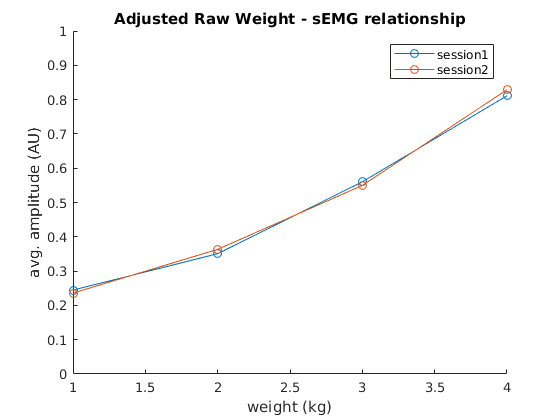
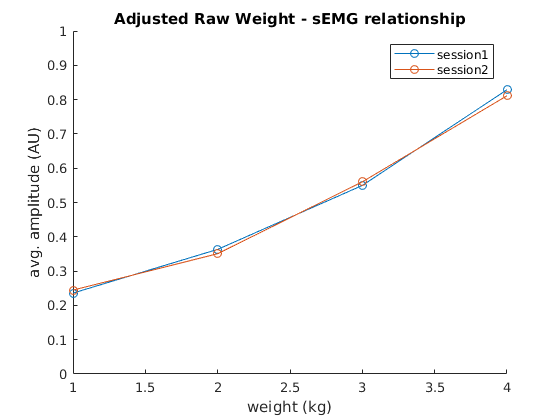
pics

diff --git a/ADC_NI_DAQ/Signal plotting example/plot_reg_multi_test.m b/ADC_NI_DAQ/Signal plotting example/plot_reg_multi_test.m
@@ -4,8 +4,8 @@ clear; close all;
 
 
 %% Part 1
-file_path = '/home/dymnz/Documents/sEMG/Signals/2017_8_9/';
-filenames = {'1kg.lvm', '2kg.lvm', '3kg_2.lvm', '4kg.lvm'};
+file_path = '/home/dymnz/Documents/sEMG/Signals/2017_8_8/';
+filenames = {'1kg_2.lvm', '2kg_2.lvm', '3kg_2.lvm', '4kg_2.lvm'};
 
 MVC = lvmread(strcat(file_path, 'MVC.lvm'));
 MVC(:, 2) = MVC(:, 2) - mean(MVC(:, 2));
@@ -38,8 +38,8 @@ ylabel('avg. amplitude (AU)');
 hold on;
 
 %% Part 2
-file_path = '/home/dymnz/Documents/sEMG/Signals/2017_8_8/';
-filenames = {'1kg_2.lvm', '2kg_2.lvm', '3kg_2.lvm', '4kg_2.lvm'};
+file_path = '/home/dymnz/Documents/sEMG/Signals/2017_8_9/';
+filenames = {'1kg.lvm', '2kg.lvm', '3kg_2.lvm', '4kg.lvm'};
 
 MVC = lvmread(strcat(file_path, 'MVC.lvm'));
 MVC(:, 2) = MVC(:, 2) - mean(MVC(:, 2));
@@ -67,14 +67,14 @@ legend('session1', 'session2');
 
 %% Find weight constant
 figure;
-plot(norm_mean_amps1./norm_mean_amps2, '-o');
+plot(norm_mean_amps2./norm_mean_amps1, '-o');
 ylim([0 1]);
 xlim([1 length(filenames)]);
-title("The weight constant accross tests");
+title("Normalized Ratio accross tests");
 xlabel('weight (kg)');
 ylabel('ratio (AU)');
-weight = mean(norm_mean_amps1./norm_mean_amps2);
-norm_mean_amps2 = norm_mean_amps2 * weight;
+weight = mean(norm_mean_amps2./norm_mean_amps1);
+norm_mean_amps1 = norm_mean_amps1 * weight;
 
 %% Plot adjusted compare
 figure; hold on;

diff --git a/ADC_NI_DAQ/Signal plotting example/plot_reg_multi_test_noMVC_norm.m b/ADC_NI_DAQ/Signal plotting example/plot_reg_multi_test_noMVC_norm.m
@@ -4,8 +4,8 @@ clear; close all;
 
 
 %% Part 1
-file_path = '/home/dymnz/Documents/sEMG/Signals/2017_8_9/';
-filenames = {'1kg.lvm', '2kg.lvm', '3kg_2.lvm', '4kg.lvm'};
+file_path = '/home/dymnz/Documents/sEMG/Signals/2017_8_8/';
+filenames = {'1kg_2.lvm', '2kg_2.lvm', '3kg_2.lvm', '4kg_2.lvm'};
 
 MVC = lvmread(strcat(file_path, 'MVC.lvm'));
 MVC(:, 2) = MVC(:, 2) - mean(MVC(:, 2));
@@ -38,8 +38,9 @@ ylabel('avg. amplitude (AU)');
 hold on;
 
 %% Part 2
-file_path = '/home/dymnz/Documents/sEMG/Signals/2017_8_8/';
-filenames = {'1kg_2.lvm', '2kg_2.lvm', '3kg_2.lvm', '4kg_2.lvm'};
+file_path = '/home/dymnz/Documents/sEMG/Signals/2017_8_9/';
+filenames = {'1kg.lvm', '2kg.lvm', '3kg_2.lvm', '4kg.lvm'};
+
 
 MVC = lvmread(strcat(file_path, 'MVC.lvm'));
 MVC(:, 2) = MVC(:, 2) - mean(MVC(:, 2));
@@ -67,14 +68,14 @@ legend('session1', 'session2');
 
 %% Find weight constant
 figure;
-plot(norm_mean_amps1./norm_mean_amps2, '-o');
+plot(norm_mean_amps2./norm_mean_amps1, '-o');
 ylim([0 1]);
 xlim([1 length(filenames)]);
-title("The raio accross tests");
+title("Raw Ratio accross tests");
 xlabel('weight (kg)');
 ylabel('ratio (AU)');
-weight = mean(norm_mean_amps1./norm_mean_amps2);
-norm_mean_amps2 = norm_mean_amps2 * weight;
+weight = mean(norm_mean_amps2./norm_mean_amps1);
+norm_mean_amps1 = norm_mean_amps1 * weight;
 
 %% Plot adjusted compare
 figure; hold on;

diff --git a/Reports/wang/exp3_2017_8_9.MD b/Reports/wang/exp3_2017_8_9.MD
@@ -55,7 +55,7 @@ W/o MVC nomalization:
 
 W/ MVC nomalization:
 
-![](https://raw.githubusercontent.com/dymnz/sEMG/master/Reports/wang/pics/exp3_2017_8_9/ratio_constant.png)
+![](https://raw.githubusercontent.com/dymnz/sEMG/master/Reports/wang/pics/exp3_2017_8_9/norm_ratio_constant.png)
 
 W/o MVC nomalization:
 
